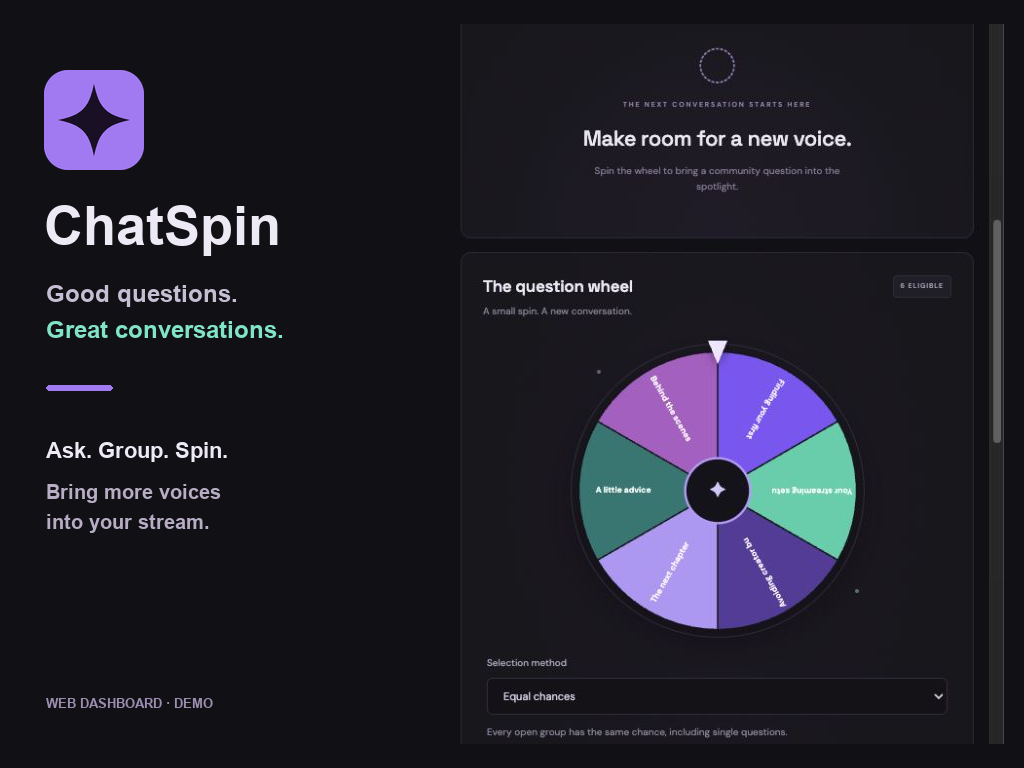
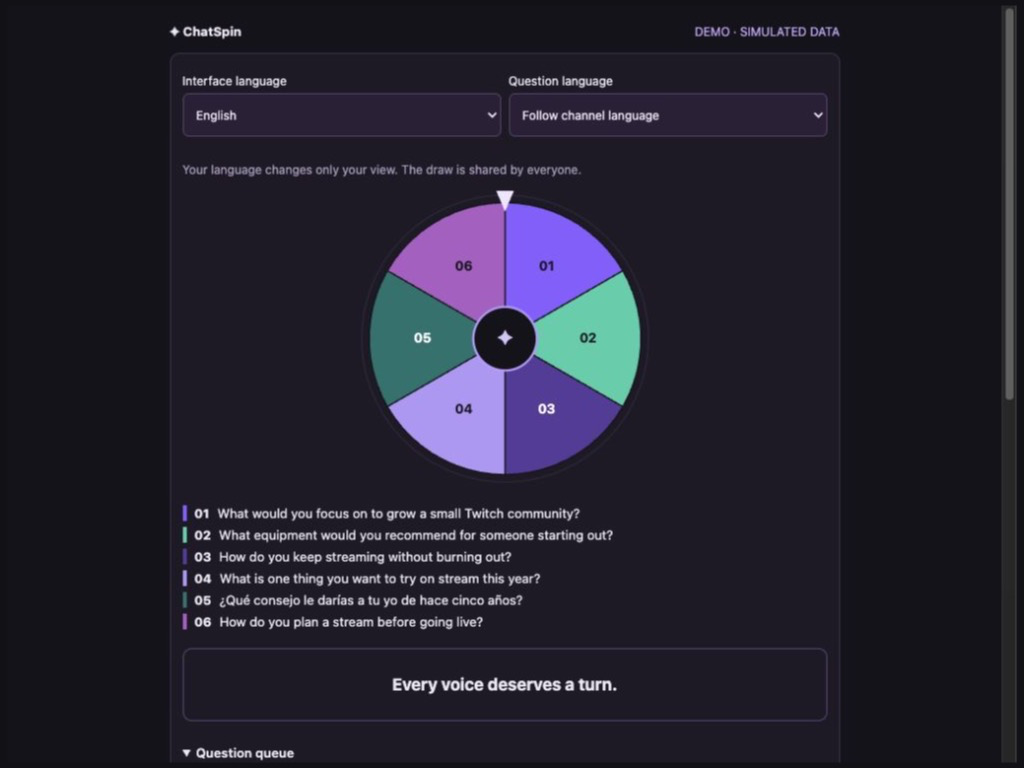
Document Codex evidence and brand context, link legal pages and refresh extension screenshot

diff --git a/public/terms.html b/public/terms.html
@@ -3,11 +3,8 @@
   <head>
     <meta charset="utf-8" />
     <meta name="viewport" content="width=device-width,initial-scale=1" />
-    <title>Terms of Service / Términos de uso · ChatSpin by TapLinko</title>
-    <meta
-      name="description"
-      content="Terms of Service / Términos de uso for ChatSpin by TapLinko"
-    />
+    <title>Terms of Service / Términos de uso · ChatSpin</title>
+    <meta name="description" content="Terms of Service / Términos de uso for ChatSpin" />
     <style>
       * {
         box-sizing: border-box;
@@ -71,12 +68,12 @@
   <body>
     <main>
       <header>
-        <a href="/">ChatSpin by TapLinko</a>
+        <a href="/">ChatSpin</a>
         <h1 data-text-en="Terms of Service" data-text-es="Términos de uso">Terms of Service</h1>
         <small
-          data-text-en="Last updated: October 28, 2026"
-          data-text-es="Última actualización: 28 de octubre de 2026"
-          >Last updated: October 28, 2026</small
+          data-text-en="Last updated: October 29, 2026"
+          data-text-es="Última actualización: 29 de octubre de 2026"
+          >Last updated: October 29, 2026</small
         >
         <div class="legal-language-picker" role="group" aria-label="Language / Idioma">
           <span class="legal-language-label" data-text-en="Language" data-text-es="Idioma"
@@ -102,28 +99,31 @@
         >
       </header>
       <section id="english" lang="en">
+        <p class="notice">
+          ChatSpin is an individual-team hackathon project. “ChatSpin by TapLinko” is its Twitch
+          registration name because the shorter name was rejected. The creator identifies TapLinko
+          as his personally registered trademark in Argentina; registration evidence may be
+          requested for INPI verification. The brand is not a corporate hackathon entrant.
+        </p>
         <h2>Service and operator</h2>
         <p>
-          These terms govern use of the ChatSpin service operated by TapLinko at
-          https://chatspin.taplinko.store, its Twitch extension and optional OBS presentation.
-          Questions: <a href="mailto:contacto@taplinko.store">contacto@taplinko.store</a>. The
-          service is under development; features and availability may change.
+          These terms govern use of the ChatSpin service operated by its creator under the TapLinko
+          brand at https://chatspin.taplinko.store, its Twitch extension and optional OBS
+          presentation. Questions:
+          <a href="mailto:contacto@taplinko.store">contacto@taplinko.store</a>. The service is under
+          development; features and availability may change.
         </p>
         <h2>Open-source code and hosted service</h2>
         <p>
           ChatSpin source code is licensed under the MIT License. That license permits commercial
           use, modification, redistribution and self-hosting, subject to its notice requirements.
           These service terms do not replace or restrict rights granted by the MIT License.
-          Independently hosted copies are operated by their own administrators. A paid hosted
-          offering may cover hosting, maintenance, support and usage; it does not make the
-          open-source code exclusive.
+          Independently hosted copies are operated by their own administrators.
         </p>
         <p>
-          No subscription, purchase or Bits transaction is created by accepting these terms. This
-          version does not implement billing. Before any paid plan is offered, its price, taxes,
-          usage limits, renewal, cancellation and refund terms must be disclosed separately and
-          accepted as required. Twitch monetization features remain subject to Twitch approval and
-          policies.
+          This development version is available without a ChatSpin service fee. It does not
+          implement billing, paid plans or Bits purchases. Self-hosting may incur separate hosting
+          or OpenAI API charges from those providers.
         </p>
         <h2>Accounts and acceptable use</h2>
         <p>
@@ -162,34 +162,38 @@
         <p>
           The development service is provided as available without a promise of uninterrupted
           operation, accuracy or recovery of all data. Keep backups of information you need. To the
-          extent permitted by applicable law, TapLinko disclaims implied warranties and liability
-          for indirect or consequential loss. Nothing here excludes mandatory consumer rights or
-          liability that cannot lawfully be excluded. No exclusive court or governing-law choice is
-          imposed by these terms. Material changes will be posted with an updated date; paid
-          offerings may require additional notice or agreement.
+          extent permitted by applicable law, the operator disclaims implied warranties and
+          liability for indirect or consequential loss. Nothing here excludes mandatory consumer
+          rights or liability that cannot lawfully be excluded. No exclusive court or governing-law
+          choice is imposed by these terms. Material changes will be posted with an updated date.
         </p>
       </section>
       <section id="espanol" lang="es">
+        <p class="notice">
+          ChatSpin es un proyecto de hackathon de un equipo de personas. “ChatSpin by TapLinko” es
+          el nombre registrado en Twitch porque se rechazó el nombre corto. Su creador declara que
+          TapLinko es una marca registrada a su nombre en Argentina; se puede solicitar la
+          constancia para verificarla ante el INPI. La marca no es una empresa participante del
+          hackathon.
+        </p>
         <h2>Servicio y responsable</h2>
         <p>
-          Estas condiciones corresponden al servicio ChatSpin de TapLinko en
-          https://chatspin.taplinko.store, su extensión de Twitch y la presentación opcional de OBS.
-          Contacto: <a href="mailto:contacto@taplinko.store">contacto@taplinko.store</a>. El
+          Estas condiciones corresponden al servicio ChatSpin de su creador, bajo la marca TapLinko,
+          en https://chatspin.taplinko.store, su extensión de Twitch y la presentación opcional de
+          OBS. Contacto: <a href="mailto:contacto@taplinko.store">contacto@taplinko.store</a>. El
           servicio está en desarrollo y sus funciones o disponibilidad pueden cambiar.
         </p>
-        <h2>Código abierto y alojamiento pago</h2>
+        <h2>Código abierto y servicio alojado</h2>
         <p>
           El código de ChatSpin usa licencia MIT, que permite uso comercial, modificación,
           distribución y alojamiento propio respetando sus avisos. Estas condiciones no sustituyen
           ni restringen esa licencia. Las instalaciones de terceros tienen sus propios
-          administradores. Un servicio alojado pago puede cobrar por infraestructura, mantenimiento,
-          soporte y consumo, sin convertir el código abierto en exclusivo.
+          administradores.
         </p>
         <p>
-          Aceptar estas condiciones no crea una compra, suscripción ni transacción con Bits. Esta
-          versión no implementa cobros. Antes de ofrecer un plan pago deberán informarse precio,
-          impuestos, límites, renovación, cancelación y reembolsos, y obtenerse la aceptación
-          correspondiente. La monetización en Twitch depende de sus reglas y aprobaciones.
+          Esta versión en desarrollo está disponible sin una tarifa de servicio de ChatSpin. No
+          implementa cobros, planes pagos ni compras con Bits. Alojarla por cuenta propia puede
+          generar costos de alojamiento o de la API de OpenAI cobrados por esos proveedores.
         </p>
         <h2>Cuentas y uso aceptable</h2>
         <p>
@@ -228,12 +232,12 @@
           En la medida permitida por la ley se excluyen garantías implícitas y responsabilidad por
           daños indirectos; no se excluyen derechos obligatorios del consumidor ni responsabilidades
           legalmente irrenunciables. No se impone jurisdicción exclusiva ni elección de ley.
-          Publicaremos cambios relevantes con una nueva fecha; los planes pagos pueden necesitar
-          avisos o acuerdos adicionales.
+          Publicaremos cambios relevantes con una nueva fecha.
         </p>
       </section>
       <footer>
-        TapLinko · <a href="mailto:contacto@taplinko.store">contacto@taplinko.store</a>
+        ChatSpin · TapLinko (brand / marca) ·
+        <a href="mailto:contacto@taplinko.store">contacto@taplinko.store</a>
       </footer>
     </main>
   </body>

diff --git a/public/privacy.html b/public/privacy.html
@@ -3,11 +3,8 @@
   <head>
     <meta charset="utf-8" />
     <meta name="viewport" content="width=device-width,initial-scale=1" />
-    <title>Privacy Policy / Política de privacidad · ChatSpin by TapLinko</title>
-    <meta
-      name="description"
-      content="Privacy Policy / Política de privacidad for ChatSpin by TapLinko"
-    />
+    <title>Privacy Policy / Política de privacidad · ChatSpin</title>
+    <meta name="description" content="Privacy Policy / Política de privacidad for ChatSpin" />
     <style>
       * {
         box-sizing: border-box;
@@ -71,12 +68,12 @@
   <body>
     <main>
       <header>
-        <a href="/">ChatSpin by TapLinko</a>
+        <a href="/">ChatSpin</a>
         <h1 data-text-en="Privacy Policy" data-text-es="Política de privacidad">Privacy Policy</h1>
         <small
-          data-text-en="Last updated: October 28, 2026"
-          data-text-es="Última actualización: 28 de octubre de 2026"
-          >Last updated: October 28, 2026</small
+          data-text-en="Last updated: October 29, 2026"
+          data-text-es="Última actualización: 29 de octubre de 2026"
+          >Last updated: October 29, 2026</small
         >
         <div class="legal-language-picker" role="group" aria-label="Language / Idioma">
           <span class="legal-language-label" data-text-en="Language" data-text-es="Idioma"
@@ -102,10 +99,16 @@
         >
       </header>
       <section id="english" lang="en">
+        <p class="notice">
+          ChatSpin is an individual-team hackathon project. “ChatSpin by TapLinko” is its Twitch
+          registration name because the shorter name was rejected. The creator identifies TapLinko
+          as his personally registered trademark in Argentina; registration evidence may be
+          requested for INPI verification. The brand is not a corporate hackathon entrant.
+        </p>
         <h2>Privacy notice</h2>
         <p>
-          This notice describes the ChatSpin deployment operated by TapLinko at
-          https://chatspin.taplinko.store, including its Twitch extension and optional OBS
+          This notice describes the ChatSpin deployment operated by its creator under the TapLinko
+          brand at https://chatspin.taplinko.store, including its Twitch extension and optional OBS
           presentation. Independently self-hosted copies have their own operators; contact that
           operator about their processing.
         </p>
@@ -144,12 +147,12 @@
         <p>
           Twitch provides authentication, extension authorization and chat. When AI is enabled, chat
           text is sent to OpenAI for question detection, and question text is sent for grouping,
-          embeddings and translation. Some requests include message identifiers and timestamps.
-          ChatSpin does not send server credentials as model input. These providers and the
-          configured hosting provider process data according to their terms; their infrastructure
-          may be in other countries. ChatSpin has no application-level advertising or analytics
-          tracker and does not sell personal data. Provider logging and retention are separate from
-          ChatSpin storage.
+          embeddings and translation. Approved answer text is also sent for answer translation when
+          enabled. Some requests include message identifiers and timestamps. ChatSpin does not send
+          server credentials as model input. These providers and the configured hosting provider
+          process data according to their terms; their infrastructure may be in other countries.
+          ChatSpin has no application-level advertising or analytics tracker and does not sell
+          personal data. Provider logging and retention are separate from ChatSpin storage.
         </p>
         <h2>Retention, backups and removal</h2>
         <p>
@@ -181,11 +184,18 @@
         </p>
       </section>
       <section id="espanol" lang="es">
+        <p class="notice">
+          ChatSpin es un proyecto de hackathon de un equipo de personas. “ChatSpin by TapLinko” es
+          el nombre registrado en Twitch porque se rechazó el nombre corto. Su creador declara que
+          TapLinko es una marca registrada a su nombre en Argentina; se puede solicitar la
+          constancia para verificarla ante el INPI. La marca no es una empresa participante del
+          hackathon.
+        </p>
         <h2>Aviso de privacidad</h2>
         <p>
-          Este aviso corresponde a ChatSpin operado por TapLinko en https://chatspin.taplinko.store,
-          su extensión de Twitch y su presentación opcional para OBS. Las copias alojadas por
-          terceros tienen sus propios responsables.
+          Este aviso corresponde a ChatSpin operado por su creador bajo la marca TapLinko en
+          https://chatspin.taplinko.store, su extensión de Twitch y su presentación opcional para
+          OBS. Las copias alojadas por terceros tienen sus propios responsables.
         </p>
         <h2>Datos y finalidad</h2>
         <p>
@@ -214,11 +224,13 @@
         <p>
           Twitch proporciona autenticación, autorización y chat. Con IA habilitada, OpenAI recibe
           textos del chat para detectar preguntas y textos de preguntas para agrupar, generar
-          embeddings y traducir; algunas solicitudes incluyen identificadores y fechas de mensajes.
-          No se envían las credenciales del servidor como contenido del modelo. Los proveedores de
-          IA, Twitch y alojamiento aplican sus propias condiciones y pueden procesar datos en otros
-          países. ChatSpin no incorpora rastreadores publicitarios o analíticos ni vende datos
-          personales; los registros y la retención de los proveedores son independientes.
+          embeddings y traducir. También se envían respuestas aprobadas para traducirlas cuando esa
+          función está habilitada; algunas solicitudes incluyen identificadores y fechas de
+          mensajes. No se envían las credenciales del servidor como contenido del modelo. Los
+          proveedores de IA, Twitch y alojamiento aplican sus propias condiciones y pueden procesar
+          datos en otros países. ChatSpin no incorpora rastreadores publicitarios o analíticos ni
+          vende datos personales; los registros y la retención de los proveedores son
+          independientes.
         </p>
         <h2>Conservación y derechos</h2>
         <p>
@@ -246,7 +258,8 @@
         </p>
       </section>
       <footer>
-        TapLinko · <a href="mailto:contacto@taplinko.store">contacto@taplinko.store</a>
+        ChatSpin · TapLinko (brand / marca) ·
+        <a href="mailto:contacto@taplinko.store">contacto@taplinko.store</a>
       </footer>
     </main>
   </body>

diff --git a/src/locales.ts b/src/locales.ts
@@ -1,5 +1,9 @@
 // Static UI catalogs. No runtime model calls.
 export const german: Record<string, string | string[]> = {
+  'Legal information': 'Rechtliche Informationen',
+  'Privacy policy': 'Datenschutz',
+  'Terms of use': 'Nutzungsbedingungen',
+
   'This question was edited by someone else. Reopen it before saving.':
     'Diese Frage wurde von jemand anderem bearbeitet. Öffne sie vor dem Speichern erneut.',
   'Manual review required — AI is not configured':
@@ -424,6 +428,10 @@ export const german: Record<string, string | string[]> = {
   'Clear all participants?': 'Alle Teilnehmer löschen?',
 };
 export const russian: Record<string, string | string[]> = {
+  'Legal information': 'Правовая информация',
+  'Privacy policy': 'Конфиденциальность',
+  'Terms of use': 'Условия использования',
+
   'This question was edited by someone else. Reopen it before saving.':
     'Этот вопрос изменил другой пользователь. Откройте его заново перед сохранением.',
   'Manual review required — AI is not configured': 'Требуется ручная проверка — ИИ не настроен',

diff --git a/src/main.tsx b/src/main.tsx
@@ -534,6 +534,10 @@ function App() {
               ChatSpin <b>✦</b>
               {t(' Made for the moments between chat and conversation.')}
             </span>
+            <nav className="legal-links" aria-label={t('Legal information')}>
+              <a href="/privacy.html">{t('Privacy policy')}</a>
+              <a href="/terms.html">{t('Terms of use')}</a>
+            </nav>
             <span>{t('Built with Codex')}</span>
           </footer>
         </main>

diff --git a/src/catalog.ts b/src/catalog.ts
@@ -1,5 +1,9 @@
 import { german, russian } from './locales';
 export const spanish: Record<string, string | string[]> = {
+  'Legal information': 'Información legal',
+  'Privacy policy': 'Privacidad',
+  'Terms of use': 'Términos de uso',
+
   'This question was edited by someone else. Reopen it before saving.':
     'Otra persona editó esta pregunta. Volvé a abrirla antes de guardar.',
   'Manual review required — AI is not configured':

diff --git a/src/style.css b/src/style.css
@@ -966,6 +966,7 @@ blockquote {
 }
 footer {
   display: flex;
+  flex-wrap: wrap;
   justify-content: space-between;
   gap: 15px;
   color: #c2b7d1;
@@ -1647,4 +1648,15 @@ nav a {
   .spotlight-content {
     padding-inline: 0;
   }
+}
+
+.legal-links {
+  display: flex;
+  flex-wrap: wrap;
+  gap: 16px;
+}
+.legal-links a {
+  color: #c2b7d1;
+  text-decoration: underline;
+  text-underline-offset: 3px;
 }

diff --git a/public/legal-language.js b/public/legal-language.js
@@ -41,7 +41,7 @@
       }
     });
     const title = document.querySelector('h1');
-    if (title) document.title = title.textContent + ' · ChatSpin by TapLinko';
+    if (title) document.title = title.textContent + ' · ChatSpin';
   }
   function ready() {
     document.querySelectorAll('[data-language-choice]').forEach((button) =>

diff --git a/extension/README.md b/extension/README.md
@@ -26,7 +26,7 @@ From the repository root:
 VITE_EXTENSION_API_ORIGIN=https://chatspin.taplinko.store npm run extension:package
 ```
 
-Upload `extension/chatspin-extension.zip` in the Twitch version's **Files** tab. Files must be at the ZIP root. Build output is readable and excludes the local preview. This frontend ZIP is separate from the Vercel web dashboard build. Uploading it does not release the extension publicly. Use Hosted Test, allowlist your Twitch test accounts, install/activate it on the channel, and configure the paths above. Privacy and terms URLs must be publicly accessible before review; replace the provisional dashboard screenshot with the actual extension UI.
+Upload `extension/chatspin-extension.zip` in the Twitch version's **Files** tab. Files must be at the ZIP root. Build output is readable and excludes the local preview. This frontend ZIP is separate from the Vercel web dashboard build. Uploading it does not release the extension publicly. Use Hosted Test, allowlist your Twitch test accounts, install/activate it on the channel, and configure the paths above. Privacy and terms URLs must be publicly accessible before review; the included 1024×768 screenshot now shows the actual extension frontend in a local preview, explicitly labeled as simulated data. It is not a capture of a live Twitch channel.
 
 For Local Test, serve the generated frontend over a locally trusted HTTPS origin and set the Base URI accordingly. The backend must be reachable by the viewer's browser. A bundle configured with localhost cannot serve remote testers.
 
@@ -52,3 +52,7 @@ not change the broadcaster's settings or another viewer's layout. Positions stay
 inside the video when its size changes, including fullscreen. Panel and mobile
 views keep their regular layout. Upload a newly generated extension ZIP to Twitch
 to deliver this frontend change.
+
+## Directory screenshot provenance
+
+`assets/chatspin-screenshot-1024x768.png` was captured from the actual extension viewer preview on October 29, 2026, with simulated questions and no Twitch credentials or private messages. A small border pads the browser capture to Twitch’s required 1024×768 dimensions without changing the UI. It replaces the previous web-dashboard image. Upload this PNG separately in Version Details → Screenshot Image; a Vercel deployment or frontend ZIP upload does not update directory images. For the final submission video, record the extension actually running on Twitch as well.

diff --git a/README.md b/README.md
@@ -4,6 +4,20 @@ Give your Twitch community a turn. ChatSpin organizes interview questions and se
 
 Built from an empty directory with Codex during the Codex x TwitchCon Hackathon submission period. The interface supports English, Spanish, Russian and German. Question presentation can preserve the original language or use any of those four languages; original viewer messages remain intact. Documentation is in English.
 
+## Built with Codex
+
+ChatSpin was built with OpenAI Codex through iterative implementation, code review, automated testing and live Twitch debugging. Codex helped build the React interface, question processing and translations, Twitch OAuth/EventSub integration, extension views, hosted persistence, authorization and regression tests. Human testing drove product choices and verified live behavior; automated checks are recorded in [verification](docs/VERIFICATION.md).
+
+Main Codex session ID: `01a17004-f93e-7b11-bd0e-82c75f7e2e0a` (the same thread supplied in the Devpost submission).
+
+No construction-footage clip is currently published in this repository. The locally prepared narration and black-background timing video are not footage of building with Codex. The final demo should include real Codex build/debug footage and the working Twitch integration, with its public YouTube link added here when available. See the [official submission requirements](https://twitchcon-codex.devpost.com/rules).
+
+### Project name and hackathon entrant
+
+The project is **ChatSpin**. The Twitch registration uses **ChatSpin by TapLinko** because Twitch rejected the shorter name during registration. The creator states that TapLinko is a trademark registered in his personal name in Argentina; this repository does not independently verify that registration. Registration evidence can be supplied for verification through Argentina’s INPI if requested.
+
+TapLinko identifies the creator’s brand, not a company entering the hackathon. The Devpost draft identifies the entrant as a **Team of Individuals** (Damián and Sol). Brand use does not establish eligibility or replace the organizers’ review of entrant and project ownership requirements.
+
 ## Run locally
 
 Requirements: Node.js 24+ (built-in SQLite), npm, and a modern browser.
